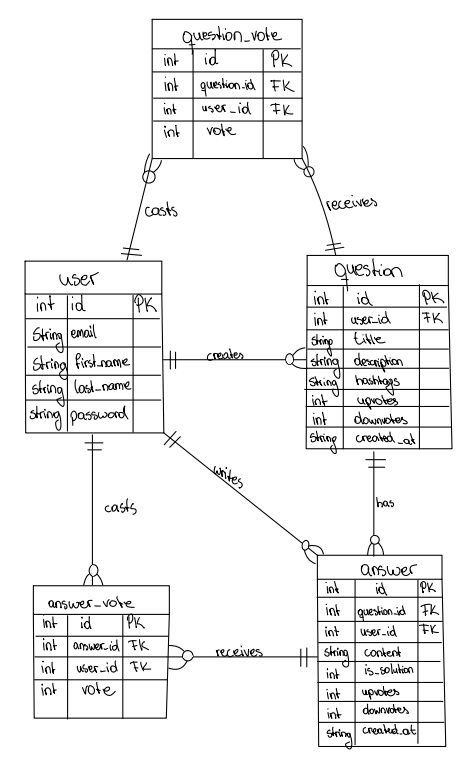
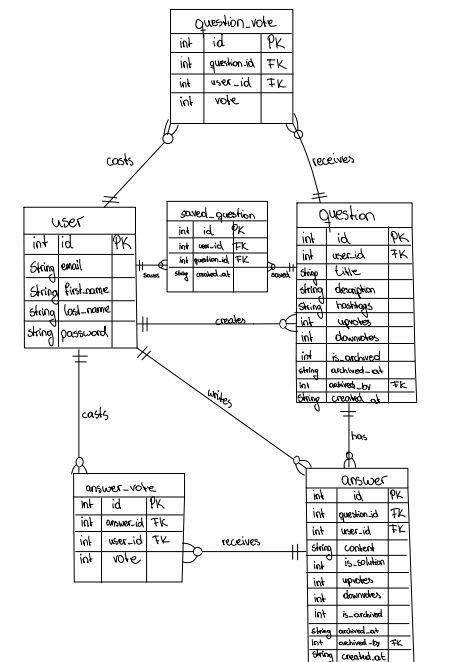
Rework data model

Changed region(s): [[0.0311, 0.0, 0.9644, 1.0]]

diff --git a/docs/02-data-model.md b/docs/02-data-model.md
@@ -22,6 +22,8 @@ Die Modellierung folgt dabei diesen Prioritäten:
 2. **Hilfreiche Inhalte sichtbar machen:** `question_vote`, `answer_vote` sowie `answer.is_solution` bilden Bewertungen und die beste Antwort ab.
 3. **Aktivität "belohnen":** Das Leaderboard berechnet Punkte aus positiven und negativen Stimmen auf Antworten sowie aus als Lösung markierten Antworten. Es benötigt keine eigene Tabelle.
 
+Die Modellierung wurde um einfache Speichermöglichkeiten für Lieblingsfragen und um einen Archivierungsstatus für Fragen und Antworten erweitert.
+
 ## Visualisierung
 
 ![ER-Diagramm des StudySwap-Datenmodells](assets/images/data-model.png)
@@ -33,8 +35,9 @@ Die Modellierung folgt dabei diesen Prioritäten:
 | Tabelle | Aufgabe | Wichtige Felder und Regeln |
 | --- | --- | --- |
 | `user` | Registrierte Studierende und Anmeldung | `id` ist der automatisch vergebene Primärschlüssel. `email` ist eindeutig und Pflicht; `first_name`, `last_name` und `password` sind ebenfalls Pflichtfelder. |
-| `question` | Eine von einem Nutzer gestellte Frage | `user_id` verweist auf den Ersteller. `title`, `description` und `hashtags` sind Pflicht. `upvotes` und `downvotes` starten bei `0`; `created_at` erhält standardmäßig den aktuellen Zeitstempel. |
-| `answer` | Eine Antwort bzw. Erfahrung zu einer Frage | `question_id` verweist auf die Frage, `user_id` auf den Antwortenden. `content` ist Pflicht. `is_solution` startet bei `0`; Stimmen und Zeitstempel funktionieren wie bei `question`. |
+| `question` | Eine von einem Nutzer gestellte Frage | `user_id` verweist auf den Ersteller. `title`, `description` und `hashtags` sind Pflicht. `upvotes` und `downvotes` starten bei `0`; `created_at` erhält standardmäßig den aktuellen Zeitstempel. Zusätzlich gibt es `is_archived`, `archived_at` und `archived_by` für den Archivierungsstatus. |
+| `answer` | Eine Antwort bzw. Erfahrung zu einer Frage | `question_id` verweist auf die Frage, `user_id` auf den Antwortenden. `content` ist Pflicht. `is_solution` startet bei `0`; Stimmen und Zeitstempel funktionieren wie bei `question`. Auch Antworten können über `is_archived`, `archived_at` und `archived_by` archiviert werden. |
+| `saved_question` | Verknüpfung zwischen Nutzer und gespeicherter Frage | Diese Tabelle erlaubt es, Fragen im Profil zu speichern. `user_id` und `question_id` bilden eine eindeutige Verbindung. |
 | `question_vote` | Einzelne Bewertung einer Frage | `question_id` und `user_id` verknüpfen Frage und abstimmende Person. `vote` speichert `1` für Upvote oder `-1` für Downvote. |
 | `answer_vote` | Einzelne Bewertung einer Antwort | `answer_id` und `user_id` verknüpfen Antwort und abstimmende Person. `vote` speichert `1` für Upvote oder `-1` für Downvote. |
 
@@ -49,5 +52,6 @@ Alle Fremdschlüssel verwenden `ON DELETE CASCADE`: Wird ein Nutzer, eine Frage 
 | Eine Frage hat viele Antworten | `answer.question_id` → `question.id` | In der Detailansicht werden alle Antworten zur gewählten Frage angezeigt. |
 | Nutzer bewerten Fragen | `question_vote.user_id` und `question_vote.question_id` | Fragen können hoch- oder heruntergewählt werden. |
 | Nutzer bewerten Antworten | `answer_vote.user_id` und `answer_vote.answer_id` | Hilfreiche Antworten werden nach oben sortiert und fließen ins Leaderboard ein. |
+| Ein Nutzer speichert viele Fragen | `saved_question.user_id` und `saved_question.question_id` | Gespeicherte Fragen bleiben im Profil sichtbar, ohne die aktive Diskussion zu verändern. |
 
 